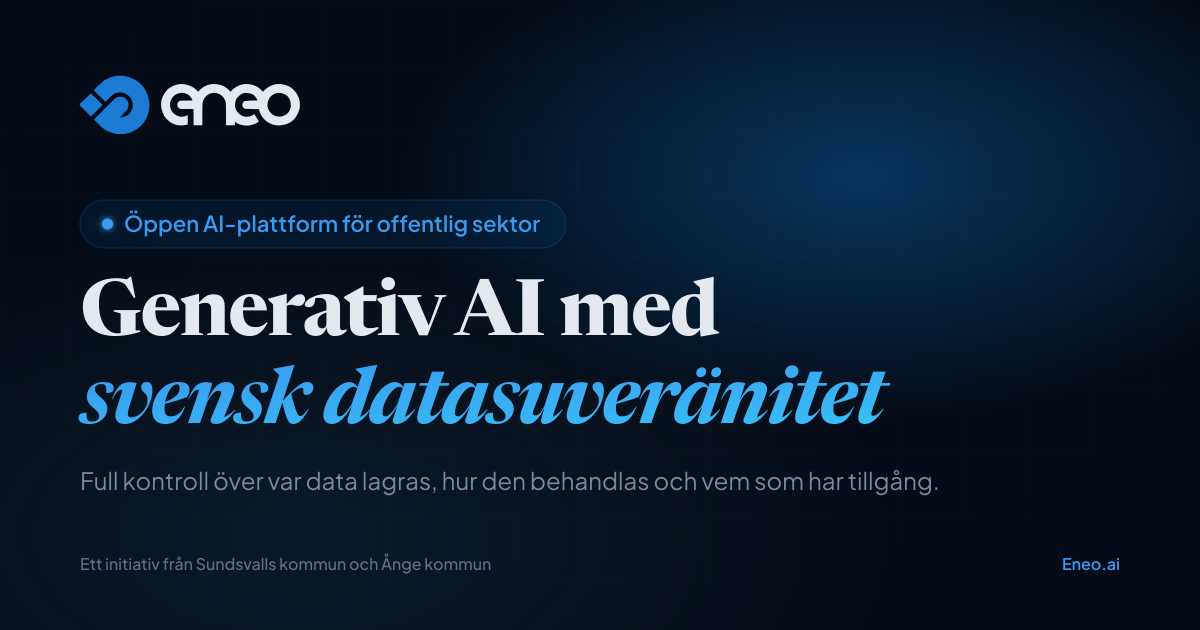
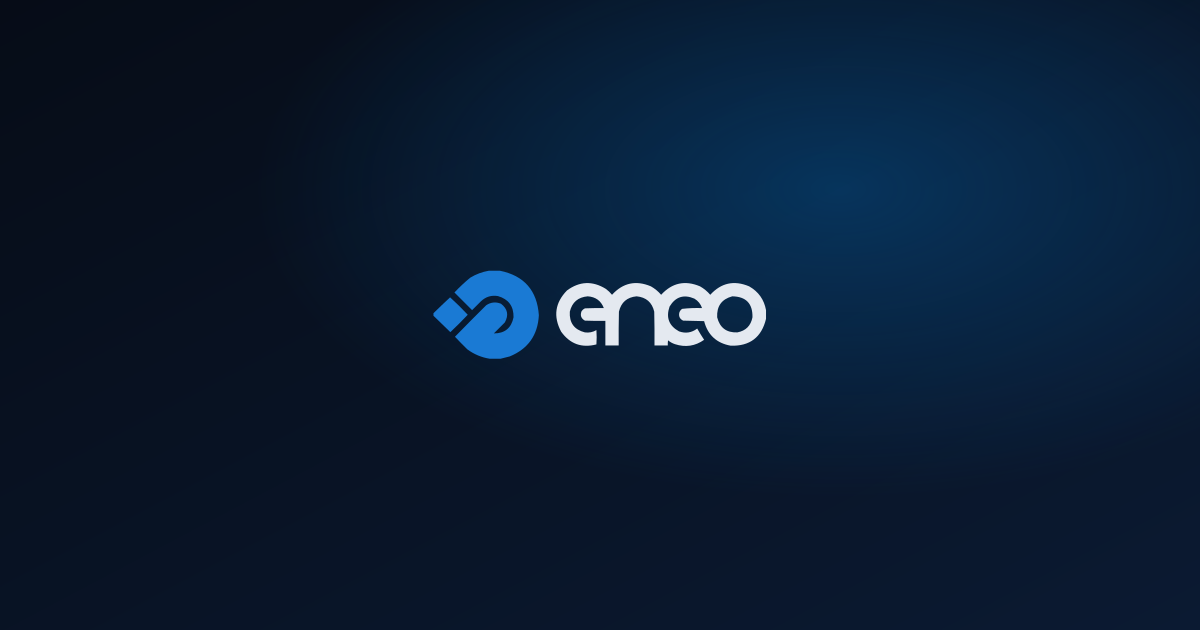
OG-bild: bara logotyp på bakgrund, ingen text
Profilen specar att delningsbilden ska vara enbart logotyp centrerad
på en bakgrund — text i bild bryter mot tillgänglighet eftersom
skärmläsare inte kan läsa pixelbaserad text. Ny OG-bild matchar
.gp-social .gp-social-canvas i grafisk profil:

- Bas: linear-gradient(135deg, #060c17, #0b1a32)
- Brand-glow: radialGradient cx 70% / cy 30%, brand 50% → 0% vid 70%
- Logo centrerad, höjd 14% av canvas (88px på 630px)

Lägger samtidigt till og:image:alt="Eneo AI" på alla 13 sidor som
har og:image, så plattformar och skärmläsare har en textbeskrivning
av bilden.

diff --git a/grafiskprofil/index.html b/grafiskprofil/index.html
@@ -12,6 +12,9 @@
     <meta property="og:title" content="Grafisk profil – Eneo AI">
     <meta property="og:description" content="Designsystem och grafisk profil för Eneo AI.">
     <meta property="og:image" content="https://eneo.ai/public/og-image.png">
+    <meta property="og:image:width" content="1200">
+    <meta property="og:image:height" content="630">
+    <meta property="og:image:alt" content="Eneo AI">
     <meta property="og:url" content="https://eneo.ai/grafiskprofil/">
     <meta property="og:type" content="website">
     <meta property="og:locale" content="sv_SE">

diff --git a/tillganglighetsredogorelse.html b/tillganglighetsredogorelse.html
@@ -11,6 +11,7 @@
     <meta property="og:image" content="https://eneo.ai/public/og-image.png" />
     <meta property="og:image:width" content="1200" />
     <meta property="og:image:height" content="630" />
+    <meta property="og:image:alt" content="Eneo AI" />
     <meta property="og:url" content="https://eneo.ai/tillganglighetsredogorelse.html" />
     <meta property="og:type" content="website" />
     <meta property="og:site_name" content="Eneo.ai" />

diff --git a/anvandningsfall.html b/anvandningsfall.html
@@ -11,6 +11,7 @@
     <meta property="og:image" content="https://eneo.ai/public/og-image.png" />
     <meta property="og:image:width" content="1200" />
     <meta property="og:image:height" content="630" />
+    <meta property="og:image:alt" content="Eneo AI" />
     <meta property="og:url" content="https://eneo.ai/anvandningsfall.html" />
     <meta property="og:type" content="website" />
     <meta property="og:site_name" content="Eneo.ai" />

diff --git a/samarbetsforum.html b/samarbetsforum.html
@@ -26,6 +26,7 @@
     <meta property="og:image" content="https://eneo.ai/public/og-image.png" />
     <meta property="og:image:width" content="1200" />
     <meta property="og:image:height" content="630" />
+    <meta property="og:image:alt" content="Eneo AI" />
     <meta property="og:url" content="https://eneo.ai/samarbetsforum.html" />
     <meta property="og:type" content="website" />
     <meta property="og:site_name" content="Eneo.ai" />

diff --git a/vanliga-fragor.html b/vanliga-fragor.html
@@ -12,6 +12,7 @@
     <meta property="og:image" content="https://eneo.ai/public/og-image.png" />
     <meta property="og:image:width" content="1200" />
     <meta property="og:image:height" content="630" />
+    <meta property="og:image:alt" content="Eneo AI" />
     <meta property="og:url" content="https://eneo.ai/vanliga-fragor.html" />
     <meta property="og:type" content="website" />
     <meta property="og:site_name" content="Eneo.ai" />

diff --git a/utbildningar.html b/utbildningar.html
@@ -11,6 +11,7 @@
     <meta property="og:image" content="https://eneo.ai/public/og-image.png" />
     <meta property="og:image:width" content="1200" />
     <meta property="og:image:height" content="630" />
+    <meta property="og:image:alt" content="Eneo AI" />
     <meta property="og:url" content="https://eneo.ai/utbildningar.html" />
     <meta property="og:type" content="website" />
     <meta property="og:site_name" content="Eneo.ai" />

diff --git a/tidslinje.html b/tidslinje.html
@@ -11,6 +11,7 @@
     <meta property="og:image" content="https://eneo.ai/public/og-image.png" />
     <meta property="og:image:width" content="1200" />
     <meta property="og:image:height" content="630" />
+    <meta property="og:image:alt" content="Eneo AI" />
     <meta property="og:url" content="https://eneo.ai/tidslinje.html" />
     <meta property="og:type" content="website" />
     <meta property="og:site_name" content="Eneo.ai" />

diff --git a/versioner.html b/versioner.html
@@ -26,6 +26,7 @@
     <meta property="og:image" content="https://eneo.ai/public/og-image.png" />
     <meta property="og:image:width" content="1200" />
     <meta property="og:image:height" content="630" />
+    <meta property="og:image:alt" content="Eneo AI" />
     <meta property="og:url" content="https://eneo.ai/versioner.html" />
     <meta property="og:type" content="website" />
     <meta property="og:site_name" content="Eneo.ai" />

diff --git a/exempel.html b/exempel.html
@@ -25,6 +25,7 @@
     <meta property="og:image" content="https://eneo.ai/public/og-image.png" />
     <meta property="og:image:width" content="1200" />
     <meta property="og:image:height" content="630" />
+    <meta property="og:image:alt" content="Eneo AI" />
     <meta property="og:url" content="https://eneo.ai/exempel.html" />
     <meta property="og:type" content="website" />
     <meta property="og:site_name" content="Eneo.ai" />

diff --git a/nyheter.html b/nyheter.html
@@ -11,6 +11,7 @@
     <meta property="og:image" content="https://eneo.ai/public/og-image.png" />
     <meta property="og:image:width" content="1200" />
     <meta property="og:image:height" content="630" />
+    <meta property="og:image:alt" content="Eneo AI" />
     <meta property="og:url" content="https://eneo.ai/nyheter.html" />
     <meta property="og:type" content="website" />
     <meta property="og:site_name" content="Eneo.ai" />

diff --git a/om-eneo.html b/om-eneo.html
@@ -11,6 +11,7 @@
     <meta property="og:image" content="https://eneo.ai/public/og-image.png" />
     <meta property="og:image:width" content="1200" />
     <meta property="og:image:height" content="630" />
+    <meta property="og:image:alt" content="Eneo AI" />
     <meta property="og:url" content="https://eneo.ai/om-eneo.html" />
     <meta property="og:type" content="website" />
     <meta property="og:site_name" content="Eneo.ai" />

diff --git a/docs.html b/docs.html
@@ -11,6 +11,7 @@
     <meta property="og:image" content="https://eneo.ai/public/og-image.png" />
     <meta property="og:image:width" content="1200" />
     <meta property="og:image:height" content="630" />
+    <meta property="og:image:alt" content="Eneo AI" />
     <meta property="og:url" content="https://eneo.ai/docs.html" />
     <meta property="og:type" content="website" />
     <meta property="og:site_name" content="Eneo.ai" />
